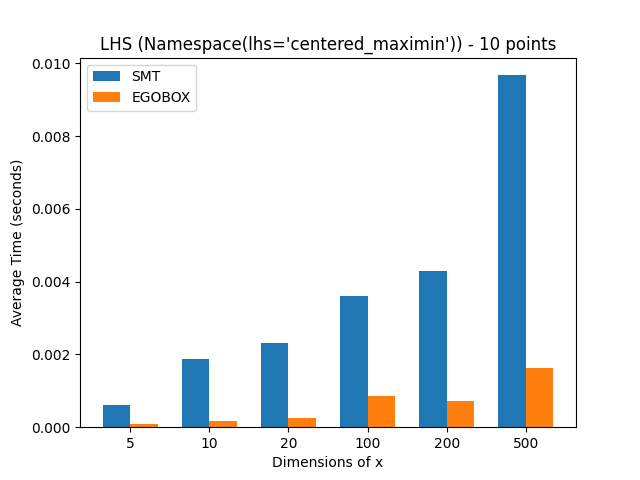
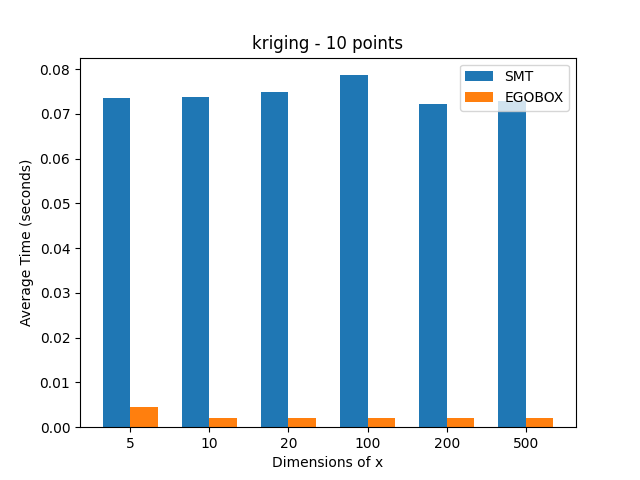
add the kriging comparison

diff --git a/kriging_bench.py b/kriging_bench.py
@@ -1,0 +1,77 @@
+from diagram_creator import sort_dimensions, create_chart, read_from_csv
+from smt.surrogate_models import KRG
+import egobox as egx
+import numpy as np
+import timeit
+import time
+import csv
+
+start = time.time()
+xt = np.array([[0.0, 1.0, 2.0, 3.0, 4.0]]).T
+yt = np.array([[0.0, 1.0, 1.5, 0.9, 1.0]]).T
+DIMENSIONS = [5, 10, 20, 100, 200, 500]
+NB_POINTS = [10, 13, 15]
+# NB_POINTS = [10, 50, 100, 250, 500, 1000]
+NB_ITER = 5
+LIBRARIES = ["SMT", "EGOBOX"]
+CSV_filename = "kriging.csv"
+file = True
+
+
+def kriging_smt(num_points):
+    sm = KRG(theta0=[1e-2])
+    sm.set_training_values(xt, yt)
+    sm.train()
+    x = np.linspace(0.0, 4.0, num_points)
+    y = sm.predict_values(x)
+    s2 = sm.predict_variances(x)
+    return y, s2
+
+
+def kriging_egobox(num_points):
+    gpx = egx.GpMix().fit(xt, yt)
+    x = np.linspace(0.0, 4.0, num_points).reshape((-1, 1))
+    y = gpx.predict_values(x)
+    s2 = gpx.predict_variances(x)
+    return y, s2
+
+
+ALGOS = {"SMT": kriging_smt, "EGOBOX": kriging_egobox}
+
+
+def run_benchmark(LIBRARIES):
+    result = []
+    for lib in LIBRARIES:
+        for dim in DIMENSIONS:
+            xlimits = np.full((dim, 2), [0, 1])
+            for num_points in NB_POINTS:
+                print(
+                    f"Running benchmark with {lib} for {xlimits.shape} and {num_points} points"
+                )
+                time = timeit.timeit(lambda: ALGOS[lib](num_points), number=NB_ITER)
+                res = {
+                    "lib": lib,
+                    "dim": dim,
+                    "nb_points": num_points,
+                    "time": time / NB_ITER,
+                }
+                print(res)
+                result.append(res)
+    return result
+
+
+def write_to_csv(csv_filename, result):
+    with open(csv_filename, mode="w", newline="") as csvfile:
+        headers = result[0].keys()
+        writer = csv.DictWriter(csvfile, fieldnames=headers)
+        writer.writeheader()
+
+        for line in result:
+            writer.writerow(line)
+
+
+if __name__ == "__main__":
+    write_to_csv(CSV_filename, run_benchmark(LIBRARIES))
+    read_from_csv(CSV_filename)
+    create_chart(sort_dimensions(), file)
+    print(f"{time.time() - start} seconds")

diff --git a/diagram_creator.py b/diagram_creator.py
@@ -1,6 +1,8 @@
 import csv
 import matplotlib.pyplot as plt
 import numpy as np
+import sys
+import os
 
 
 data = {"SMT": {}, "EGOBOX": {}}
@@ -17,7 +19,7 @@ def sort_dimensions():
     return sort_matrix_str
 
 
-def create_chart(matrix_dimensions, args):
+def create_chart(matrix_dimensions, file):
     for npoints in NB_POINTS:
         fig, ax = plt.subplots()
         bar_width = 0.35
@@ -36,7 +38,10 @@ def create_chart(matrix_dimensions, args):
         ax.set_xticklabels(matrix_dimensions)
         ax.set_xlabel("Dimensions of x")
         ax.set_ylabel("Average Time (seconds)")
-        ax.set_title(f"LHS ({args}) - {npoints} points")
+        if file:
+            ax.set_title(f"kriging - {npoints} points")
+        else:
+            ax.set_title(f"LHS - {npoints} points")
         ax.legend()
 
         plt.savefig(f"comparison_{npoints}_points.png")
@@ -57,6 +62,11 @@ def read_from_csv(CSV_filename):
 
             if num_points not in data[program][matrix]:
                 data[program][matrix][num_points] = average_time
+
+
+def is_called_from(file_path):
+    current_file = os.path.abspath(sys.argv[0])
+    return current_file == os.path.abspath(file_path)
 
 
 if __name__ == "__main__":

diff --git a/choice_bench.py b/choice_bench.py
@@ -1,4 +1,4 @@
-from lhs_functions import (
+from functions import (
     smt_lhs_opti,
     egobox_lhs_opti,
     smt_lhs_classic,
@@ -19,6 +19,7 @@ start = time.time()
 ALGOS = {}
 LIBRARIES = ["SMT", "EGOBOX"]
 CSV_filename = "results_bench.csv"
+file = False
 
 
 def parse_arguments():
@@ -46,11 +47,16 @@ def main():
     elif args.lhs == "maximin":
         ALGOS = {"SMT": smt_lhs_maximin, "EGOBOX": egobox_lhs_maximin}
     elif args.lhs == "centered_maximin":
-        ALGOS = {"SMT": smt_lhs_centered_maximin, "EGOBOX": egobox_lhs_centered_maximin}
+        ALGOS = {
+            "SMT": smt_lhs_centered_maximin,
+            "EGOBOX": egobox_lhs_centered_maximin,
+        }
+    else:
+        return
 
     write_to_csv(CSV_filename, run_benchmark(LIBRARIES, ALGOS))
     read_from_csv(CSV_filename)
-    create_chart(sort_dimensions(), args)
+    create_chart(sort_dimensions(), file)
     print(f"{time.time() - start} seconds")
 
 
